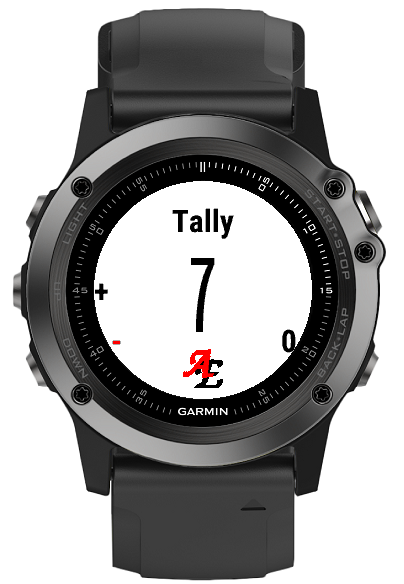
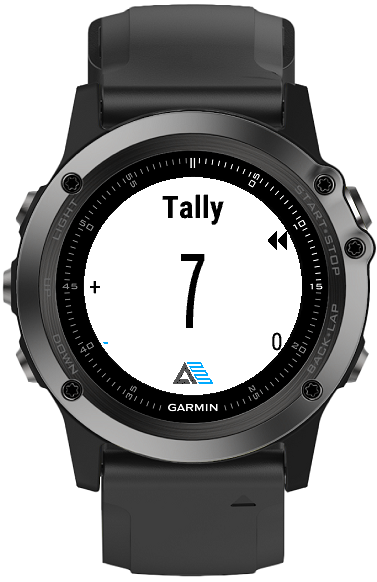
1.3.2
- Updated with current AE logo and colors

Changed region(s): [[0.0, 0.0, 1.0, 1.0], [0.6127, 0.866, 0.6711, 0.8969], [0.2626, 0.1546, 0.2918, 0.1856]]

diff --git a/CHANGELOG.md b/CHANGELOG.md
@@ -3,7 +3,12 @@
 The format is based on [Keep a Changelog](http://keepachangelog.com/)
 and this project adheres to [Semantic Versioning](http://semver.org/).
 
-## [1.3.0] - 2018-02-09
+## [1.3.2] - 2018-02-21
+### Changed
+- No function changes, just graphics updates.
+
+
+## [1.3.1] - 2018-02-09
 ### Fixed
 - a rebuild of 1.3.0 that changes the version number since it seems I
   didn't build it properly yesterday.
